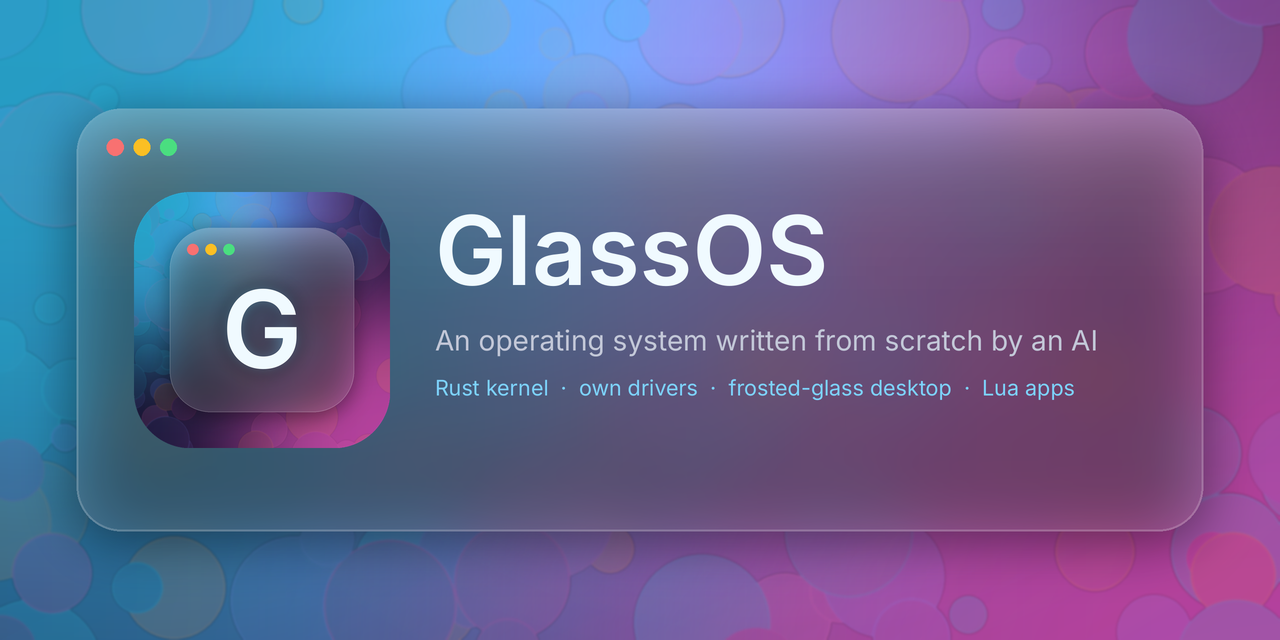
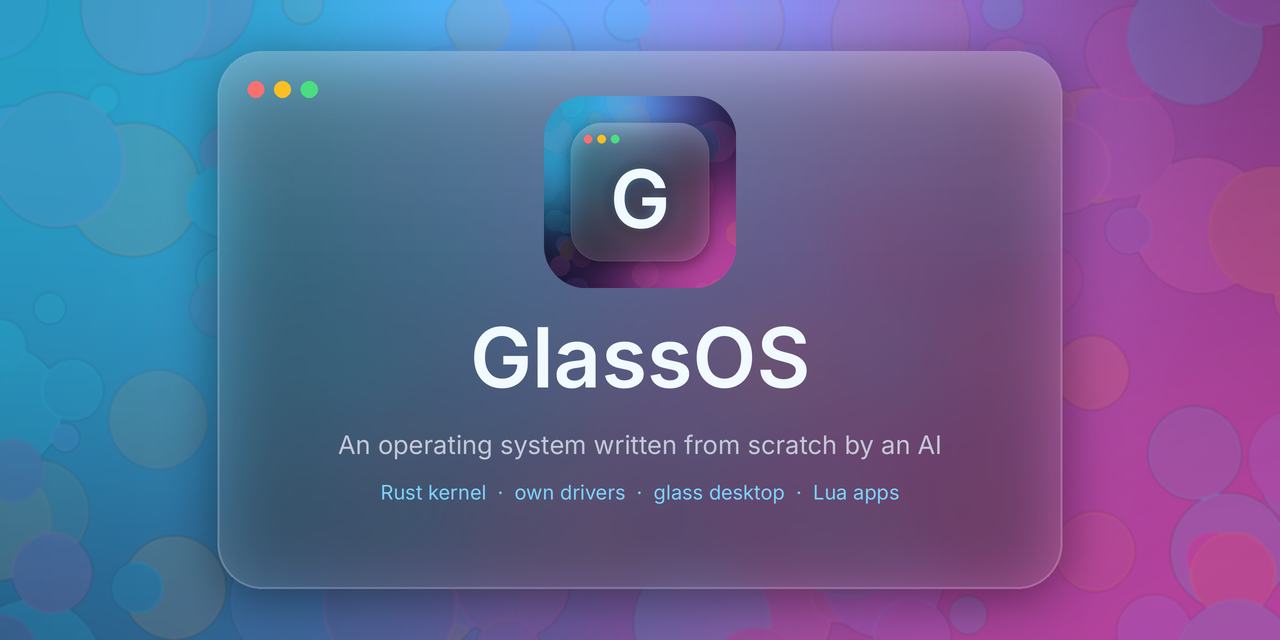
Social preview: centred layout
Claude-Session: https://claude.ai/code/session_01ViffMyiKo2CQCMmamEepYd

diff --git a/tools/logo.py b/tools/logo.py
@@ -130,26 +130,25 @@ def logo(size):
 
 
 def preview(w, h):
+    """Everything centred and well inside the edges: link previews crop the image (to 1.91:1, or to a
+    square in small thumbnails), so nothing important may sit near the sides."""
     S = 2
     W, H = w * S, h * S
     img = wallpaper(W, H, 3, density=26000)
-    box = (W * 0.06, H * 0.17, W * 0.94, H * 0.83)
+    box = (W * 0.17, H * 0.08, W * 0.83, H * 0.92)
     rad = H * 0.07
     img = shadow(img, box, rad, H * 0.04)
     img = glass(img, box, rad, H * 0.035, alpha=28)
     dots(img, box[0] + H * 0.06, box[1] + H * 0.06, H * 0.013)
-    # The icon on the left of the card.
-    icon = logo(int(H * 0.40))
-    ix, iy = int(box[0] + H * 0.09), int((H - icon.size[1]) / 2)
-    img.paste(icon, (ix, iy), icon)
+    icon = logo(int(H * 0.30))
+    img.paste(icon, (int((W - icon.size[0]) / 2), int(H * 0.15)), icon)
     d = ImageDraw.Draw(img)
-    tx = ix + icon.size[0] + H * 0.07
-    title = ImageFont.truetype(SEMI, int(H * 0.15))
-    sub = ImageFont.truetype(REG, int(H * 0.044))
-    small = ImageFont.truetype(REG, int(H * 0.034))
-    d.text((tx, H * 0.30), "GlassOS", font=title, fill=(240, 250, 255))
-    d.text((tx, H * 0.505), "An operating system written from scratch by an AI", font=sub, fill=(0xC3, 0xC8, 0xD8))
-    d.text((tx, H * 0.585), "Rust kernel  ·  own drivers  ·  frosted-glass desktop  ·  Lua apps", font=small, fill=ACCENT)
+    def centred(y, text, font, fill):
+        bb = d.textbbox((0, 0), text, font=font)
+        d.text(((W - (bb[2] - bb[0])) / 2 - bb[0], y), text, font=font, fill=fill)
+    centred(H * 0.48, "GlassOS", ImageFont.truetype(SEMI, int(H * 0.13)), (240, 250, 255))
+    centred(H * 0.67, "An operating system written from scratch by an AI", ImageFont.truetype(REG, int(H * 0.040)), (0xC3, 0xC8, 0xD8))
+    centred(H * 0.75, "Rust kernel  ·  own drivers  ·  glass desktop  ·  Lua apps", ImageFont.truetype(REG, int(H * 0.032)), ACCENT)
     return img.resize((w, h), Image.LANCZOS)
 
 
